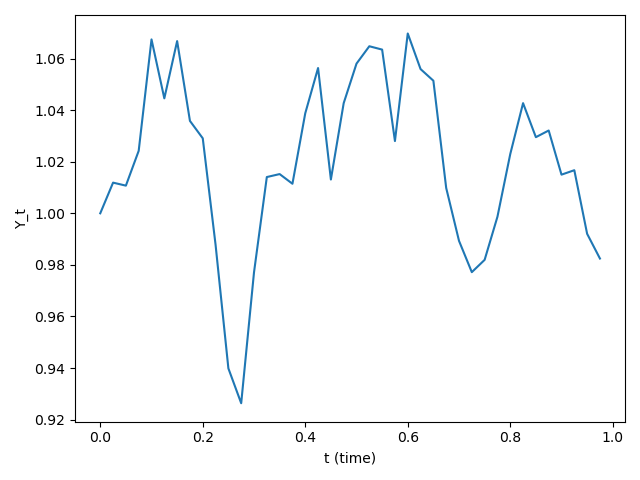
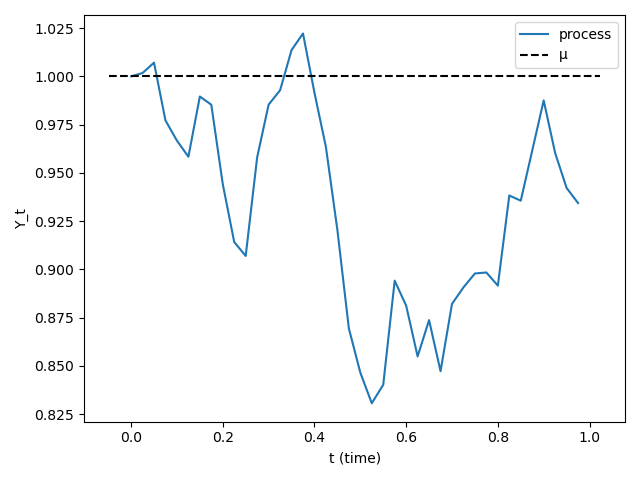
Error Checked Model and Produced Graphs for Explanation in readme

diff --git a/process.py b/process.py
@@ -8,17 +8,17 @@ Author: Ben Lawton
 import numpy as np
 import matplotlib.pyplot as plt
 
-N=500
-theta = .5
-y0 = 1
+N=400
+gamma = 2
+y0 = 2
 mu=1
-sigma = 2
+sigma = 5
 
 step= 1/N
 
 #Functions Used
 def generate(step):
-    return(np.random.normal(0, step))
+    return(np.random.normal(0, sigma*step))
 
 def dy(sigma, theta, y, step):
     return(theta*(mu-y)*step + generate(step))
@@ -29,7 +29,7 @@ array=np.zeros(N)
 array[0]=y0
 
 for i in range(1, N):
-    array[i]=array[i-1]+dy(sigma, theta, array[i-1], step)
+    array[i]=array[i-1]+dy(sigma, gamma, array[i-1], step)
     
 #Plotting results
 plt.plot(np.array(range(len(array)))/N, array, label="process")
@@ -39,7 +39,7 @@ plt.hlines(mu, color="black", xmin=plt.gca().get_xlim()[0], xmax=plt.gca().get_x
 plt.legend()
 plt.tight_layout()
 
-params = [theta, y0, mu, sigma, N]
+params = [gamma, y0, mu, sigma, N]
 plt.savefig("graphs/Process_" + "_".join([str(param) for param in params])+ "_steps.png")
 plt.show()
     
